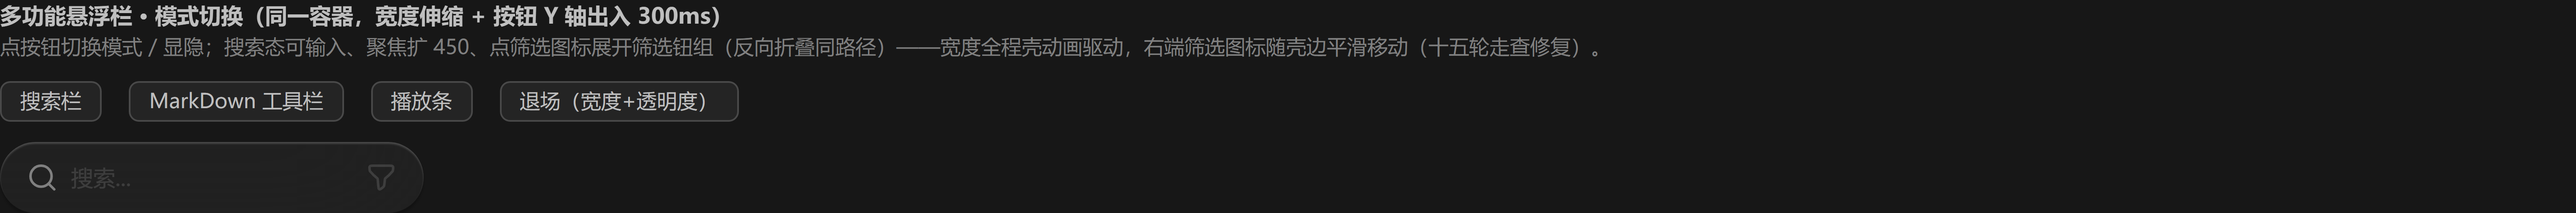
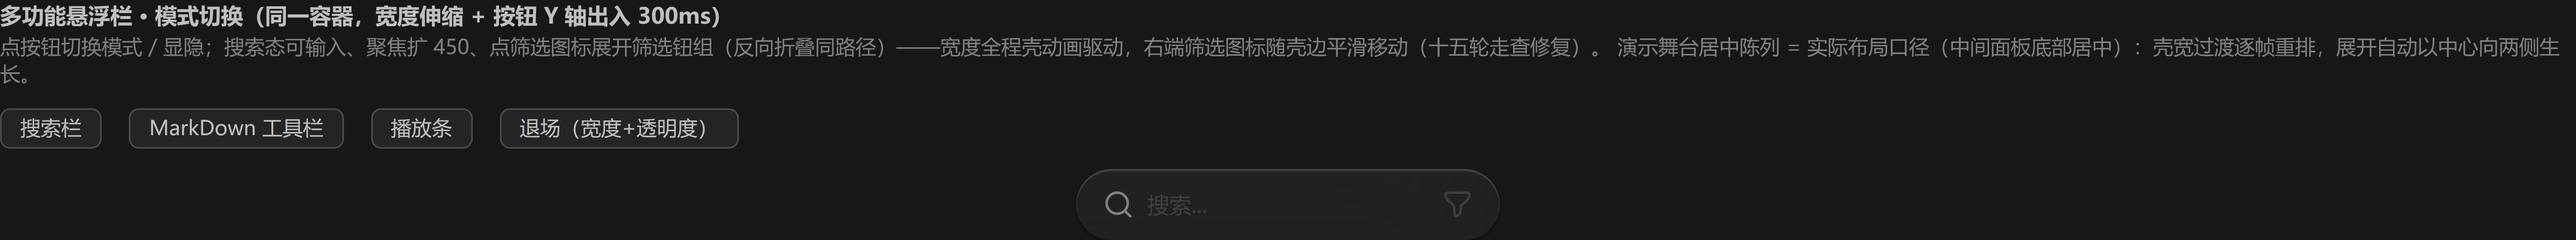
阶段七 7.1 十五轮补：悬浮栏 morph 演示舞台居中（实机口径 = 中间面板底部居中，中心向两侧扩张自动成立）+ 探针加壳中心 cx 恒定断言（聚焦/失焦全程 ±0 通过）

diff --git a/src/preview/sections/PreviewBars.vue b/src/preview/sections/PreviewBars.vue
@@ -1,7 +1,7 @@
 <script setup lang="ts">
 // 组件 悬浮栏展区——docs/UI 重构/Design Token/组件/悬浮栏/多功能悬浮栏/ 八稿的展示与验收面。
 // 搜索栏 / 搜索栏展开成筛选 / 播放条 / MarkDown 工具栏 = 同一容器（FloatBar）：
-// 切换宽度平滑伸缩 + 功能按钮 Y 轴出场入场 = 250ms 小位移 + 位移 4px（2026-08-29 用户定）；hover / 颜色 150ms。
+// 切换宽度平滑伸缩 + 功能按钮 Y 轴出场入场 = 300ms 形态切换 + 位移 4px（2026-08-29 用户两轮定）；hover / 颜色 150ms。
 // 无需悬浮栏 = 宽度 + 透明度退场（稿 prose，visible prop）。
 // 播放/暂停、声音/静音 = 单钮按态切换（稿两态并列是全量画法）；进度条无填充段（稿未画，进度靠拖钮位置）；
 // 循环/笔记开启态稿未画记 09 待办；图标 hover 升二级 = 按钮族 IconButton bare 口径（按钮展区已验收，此不重复 force 列）。
@@ -67,6 +67,7 @@ function noteRemove(i: number): void {
       <h3 class="pv-group-title">多功能悬浮栏 · 模式切换（同一容器，宽度伸缩 + 按钮 Y 轴出入 300ms）</h3>
       <p class="pv-group-note">
         点按钮切换模式 / 显隐；搜索态可输入、聚焦扩 450、点筛选图标展开筛选钮组（反向折叠同路径）——宽度全程壳动画驱动，右端筛选图标随壳边平滑移动（十五轮走查修复）。
+        演示舞台居中陈列 = 实际布局口径（中间面板底部居中）：壳宽过渡逐帧重排，展开自动以中心向两侧生长。
       </p>
       <div class="pv-demo-row">
         <button class="pv-switch" @click="morphMode = 'search'">搜索栏</button>
@@ -76,7 +77,7 @@ function noteRemove(i: number): void {
           {{ morphVisible ? "退场（宽度+透明度）" : "入场" }}
         </button>
       </div>
-      <div class="pv-demo-row">
+      <div class="pv-demo-row pv-morph-stage">
         <FloatBar
           :mode="morphMode"
           :visible="morphVisible"
@@ -212,6 +213,12 @@ function noteRemove(i: number): void {
 .pv-switch:hover {
   background: var(--n-g4);
   color: var(--n-l1);
+}
+
+/* morph 演示舞台居中——实机布局口径（中间面板底部居中）：壳宽过渡逐帧重排，展开即中心向两侧 */
+.pv-morph-stage {
+  justify-content: center;
+  width: 100%;
 }
 
 /* 帧条 + 播放条同宽组合：列排 gap 12（稿 prose 间距），两者同宽 777 */

diff --git a/tools/cdp-bars-shot-probe.py b/tools/cdp-bars-shot-probe.py
@@ -199,12 +199,14 @@ async def main() -> int:
                     " if (!ic) return { err: 'no filter icon', w: Math.round(s.width),"
                     "   html: g.querySelector('.fb-shell').innerHTML.slice(0, 260) };"
                     " const i = ic.getBoundingClientRect();"
-                    " return { w: Math.round(s.width), d: Math.round(s.right - i.right) };"
+                    " return { w: Math.round(s.width), d: Math.round(s.right - i.right),"
+                    "   cx: Math.round(s.left + s.width / 2) };"
                     " } catch (e) { return { err: e.message }; } })()"
                 )
                 print(tag, v)
                 return v
 
+            base_focus = await bars_mid("聚焦前:")
             await js(
                 "(() => { const g = [...document.querySelectorAll('#design-system-bars .pv-group')]"
                 "  .find(h => h.querySelector('.pv-group-title').textContent.startsWith('多功能悬浮栏'));"
@@ -218,10 +220,15 @@ async def main() -> int:
                 fails.append(f"聚焦中段壳宽 {mid_focus['w']} 不在 251~448 动画区间（动画未发生？）")
             elif abs(mid_focus["d"] - 16) > 24:
                 fails.append(f"聚焦中段筛选图标未随壳边（右缘差 {mid_focus['d']} ≠ 16）")
+            # 居中扩张实证：父容器居中口径下，宽度动画全程壳中心不动（中心向两侧生长）
+            elif base_focus and "cx" in base_focus and abs(mid_focus["cx"] - base_focus["cx"]) > 2:
+                fails.append(f"聚焦中段壳中心漂移 {base_focus['cx']} → {mid_focus['cx']}（应中心向两侧）")
             await asyncio.sleep(0.6)
             end_focus = await bars_mid("聚焦末态:")
             if not end_focus or "err" in end_focus or end_focus["w"] != 450 or end_focus["d"] != 16:
                 fails.append(f"聚焦末态异常: {end_focus}（应 w=450 d=16）")
+            elif base_focus and "cx" in base_focus and abs(end_focus["cx"] - base_focus["cx"]) > 2:
+                fails.append(f"聚焦末态壳中心漂移 {base_focus['cx']} → {end_focus['cx']}")
             await js(
                 "(() => { const g = [...document.querySelectorAll('#design-system-bars .pv-group')]"
                 "  .find(h => h.querySelector('.pv-group-title').textContent.startsWith('多功能悬浮栏'));"

diff --git a/docs/02_样式与布局/03_新面板口径速查.md b/docs/02_样式与布局/03_新面板口径速查.md
@@ -178,7 +178,7 @@
 
 - **组件位置 = `src/components/bars/`**（9 件 + 共享 `bars.css`）：FloatBar（壳 + 模式切换）/ FloatBarSearch / FloatBarMarkdown / FloatBarPlay / BarSlider / FrameStrip / RatePop / VolumePop / NotesPop；与旧根目录播放条件（PreviewPlayBar / PlayBarVideo / VolumeControl 等）并存，业务接入随面板重构轮替换。
 - **壳两档（bars.css）**：`.fb-shell` = 通用/半透明-2 + 立体感-背景模糊 + **圆角 21 稿值字面量**（42 高胶囊半高，Token.md 无此档非新造 token——同波形 99px 先例）+ 高 42 + overflow hidden（宽度动画裁剪），padding 12/16 由模式根 `.fb-mode` 自带（四稿同值）；`.fb-pop` = 通用/半透明-1 + 立体感-背景模糊-大阴影 + 圆角 8（倍率/音量/笔记/帧条共用）；组分隔 = 组容器左 1px 亮色/半透明-3 `border-left` + 左 padding 8（稿方案，`.fb-group`）。
-- **宽度机制 = 壳宽唯一动画源（2026-08-29 十五轮走查定稿）**：模式根恒 `width: 100%` 随壳，内容右端件（筛选图标等）随壳边逐帧平滑移动——**原方案「模式根自持 250/450/max-content 宽度类 + 壳跟随」作废勿回退**：根类瞬时切换、只有壳在动画，聚焦/失焦时筛选按钮一帧瞬跳（用户实机实锤；错误信号：内容位移与壳宽不同步）。测量 = 模式根 inline `max-content` 探针同帧读 offsetWidth（设→读→还原不闪；切换交叉期跳过 `.fb-leave-active` 旧根测新根）；**搜索栏定值档 250 常态 / 450 聚焦不经探针（稿值）**，展开与其余模式探针实测；触发点 = 模式切换 / 搜索 expanded-change·focused-change（forceState / initialExpanded 挂载即上报镜像）/ fonts.ready；ready 类挂载 rAF 后开过渡防首帧闪；`width` prop 显式覆盖跳实测（帧条同宽组合）。模式内容 props/事件经 `$attrs` 透传（inheritAttrs: false）。
+- **宽度机制 = 壳宽唯一动画源（2026-08-29 十五轮走查定稿）**：模式根恒 `width: 100%` 随壳，内容右端件（筛选图标等）随壳边逐帧平滑移动——**原方案「模式根自持 250/450/max-content 宽度类 + 壳跟随」作废勿回退**：根类瞬时切换、只有壳在动画，聚焦/失焦时筛选按钮一帧瞬跳（用户实机实锤；错误信号：内容位移与壳宽不同步）。测量 = 模式根 inline `max-content` 探针同帧读 offsetWidth（设→读→还原不闪；切换交叉期跳过 `.fb-leave-active` 旧根测新根）；**搜索栏定值档 250 常态 / 450 聚焦不经探针（稿值）**，展开与其余模式探针实测；触发点 = 模式切换 / 搜索 expanded-change·focused-change（forceState / initialExpanded 挂载即上报镜像）/ fonts.ready；ready 类挂载 rAF 后开过渡防首帧闪；`width` prop 显式覆盖跳实测（帧条同宽组合）。模式内容 props/事件经 `$attrs` 透传（inheritAttrs: false）。**中心向两侧扩张 = 父容器居中即自动成立**（布局稿口径 = 中间面板底部居中：壳只动画 width，逐帧重排使左右缘对称外扩；探针实证聚焦/失焦全程壳中心 cx 恒定 ±0）——组件不做定位，定位归父容器。
 - **切换动画参数 = 300ms 形态切换 + Y 位移 4px（2026-08-29 用户两轮定：先定 250 小位移，走查改 300 缓入缓出）**：稿只写「宽度平滑伸缩，功能按钮 Y 轴出场入场」未给数值；入场自下 +4→0 / 出场向上 0→-4 渐隐（Transition 同帧双挂载，离场 absolute 宽 100% 随壳）。**退场 = visible=false → width 0 + opacity 0**（稿 prose「宽度和透明度退场」）。
 - **搜索栏**：宽 常态 250 / 聚焦 450 / 展开 max-content（稿值）；搜索 icon 亮色/三级、筛选 icon 与收起钮 亮色/半透明-2（filter.svg 原烘焙 #F2F2F2@14% 已转 currentColor，CSS 给 --n-l-a2 档），hover 均升二级；占位符 半透明-2，**已输入文字 二级**（稿无已填态，随输入框族）；收起钮 = expand ∨ 旋转 90° 朝左；筛选钮 = 高 24 padding 4/8 圆角 6 + 半透明-3 底 + 立体感-通用 + 次要文字-加粗 二级，hover 底升半透明-2、选中 半透明-1 + 一级。
 - **MarkDown 工具栏**：段落 / 列表 / 插入 / 格式四组，图标一律 **IconButton bare 复用**（18 实寸 三级 → hover 二级）。

diff --git a/docs/04_开发日志/2026-08-29.md b/docs/04_开发日志/2026-08-29.md
@@ -164,3 +164,5 @@
 **探针攻关两坑（实证闭环）**：① headless Edge 无窗口焦点下 `focus()` 只挂 activeElement 不发 focus 事件（实机正常），探针改合成 `FocusEvent` 驱动；② **固定 CDP 端口连上历史僵尸 headless Edge**（`proc.terminate()` 只杀父进程，子进程树残留上百个）——旧页面旧模块新旧混杂鬼状态白跑四轮；清杀全部 edge-cdp 特征进程，探针改 `taskkill /F /T` 整树 + 端口 / profile 按 PID 唯一 + 禁 HTTP 缓存（踩坑 056）。
 
 **验证**：vue-tsc 绿；探针全绿——静态断言（250/450/815、播放条 10 图标、倍率 11 档、音量 124、笔记 533×378、组合 777 同宽）+ **动画中段实证：聚焦中段 w409 / 失焦中段 w304，筛选图标右缘恒贴壳右缘 -16（平滑随动不瞬跳）**；2x 截图重拍留档 `tools/style-preview/r15-bars-2x-*.png`。速查表 §18 修订（壳宽唯一动画源 + 300ms + 探针两坑）。
+
+**同日补一笔（用户确认居中口径）**：实机悬浮栏恒位于中间面板底部居中，展开动画 = 中心向两侧——壳只动画 width、父容器居中即自动成立（逐帧重排左右缘对称外扩），组件不做定位。预览页 morph 演示舞台改居中陈列（实机形态验收面），探针加壳中心 cx 恒定断言（聚焦/失焦全程 ±0 通过）。
